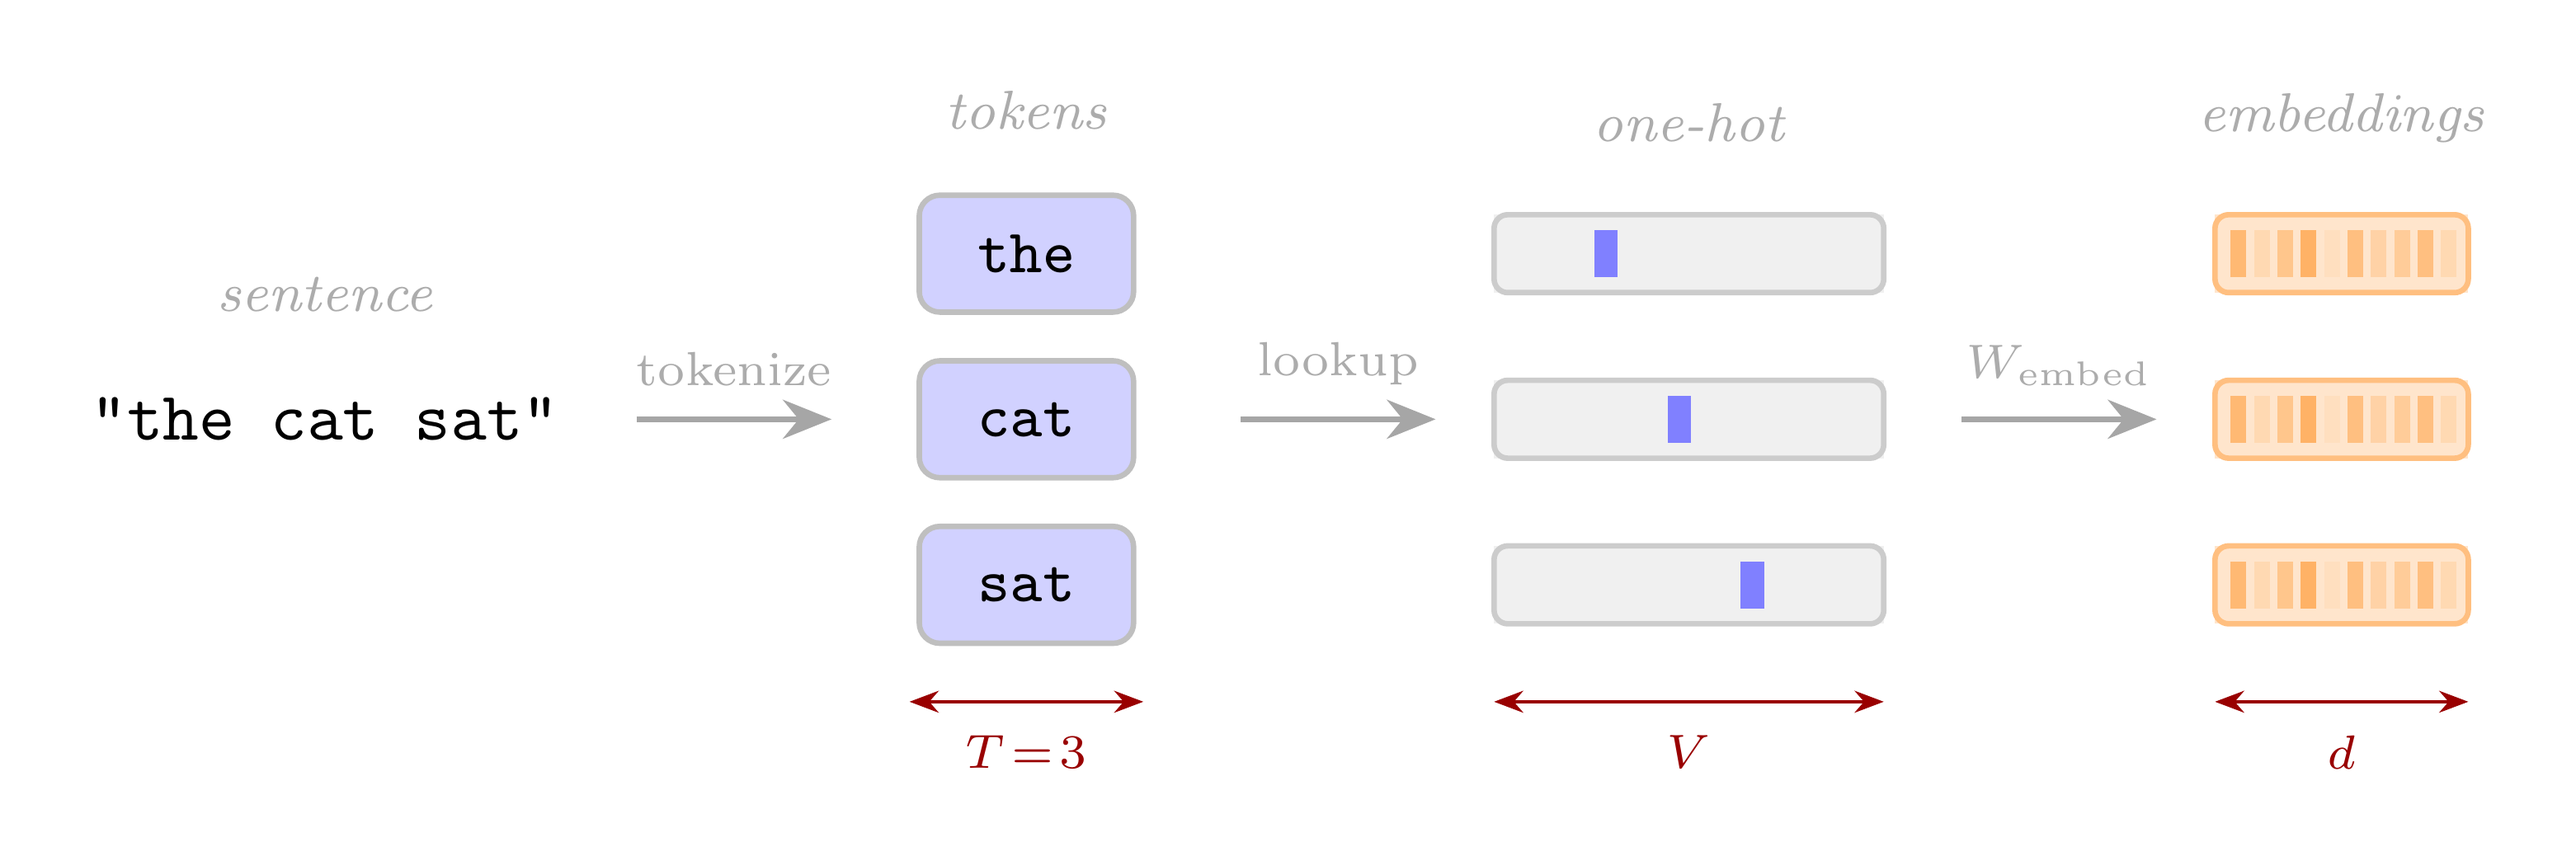
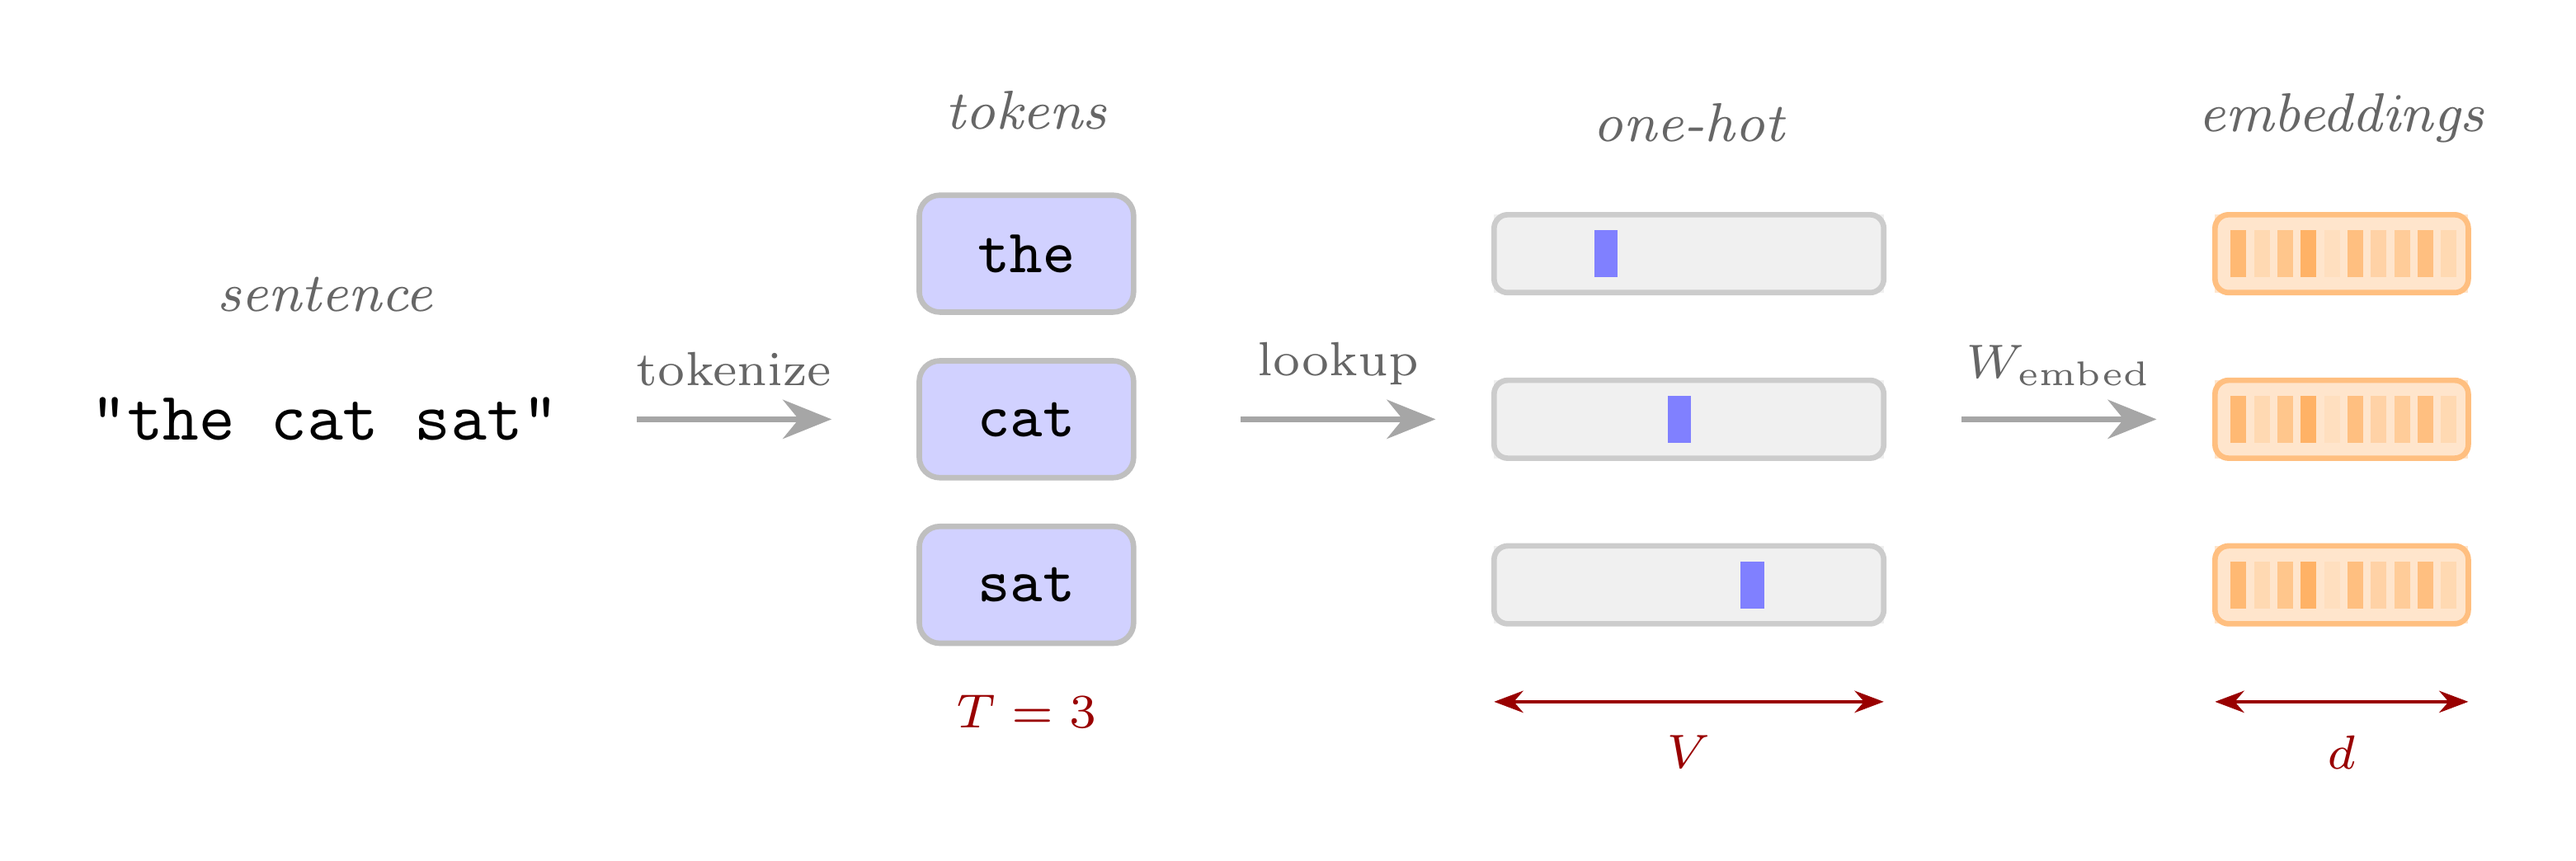
Update L22 slides: title, figures, content tweaks

diff --git a/slides/22-building-a-world-model/index.html b/slides/22-building-a-world-model/index.html
@@ -1,7 +1,7 @@
 <!DOCTYPE html>
 <html>
   <head>
-    <title>L22: Building a World Model</title>
+    <title>L22: Learning a World Model</title>
     <meta charset="utf-8">
     <style>
       @import url('https://fonts.googleapis.com/css2?family=IBM+Plex+Sans:wght@400;500;600;700&family=IBM+Plex+Mono&display=swap');
@@ -144,7 +144,7 @@
 
 class: middle, title-slide
 
-# Building a World Model
+# Learning a World Model
 
 ## CDS DS 595
 
